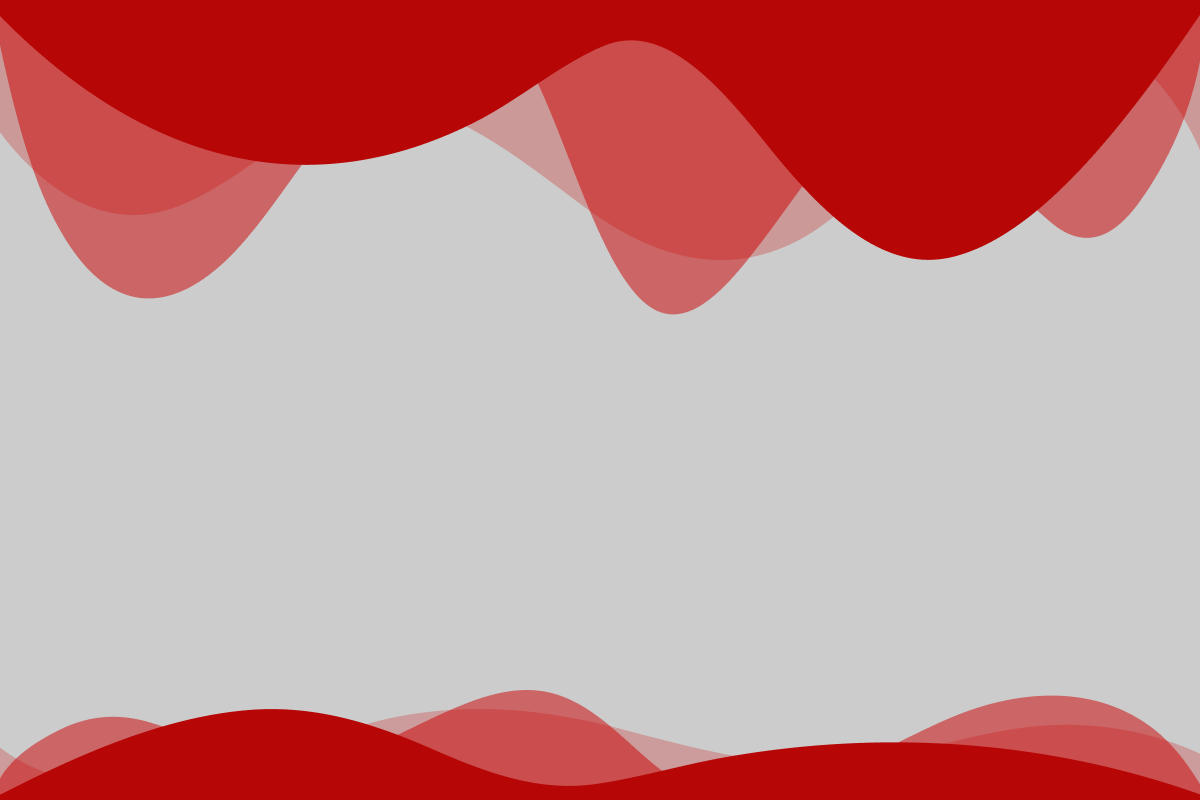
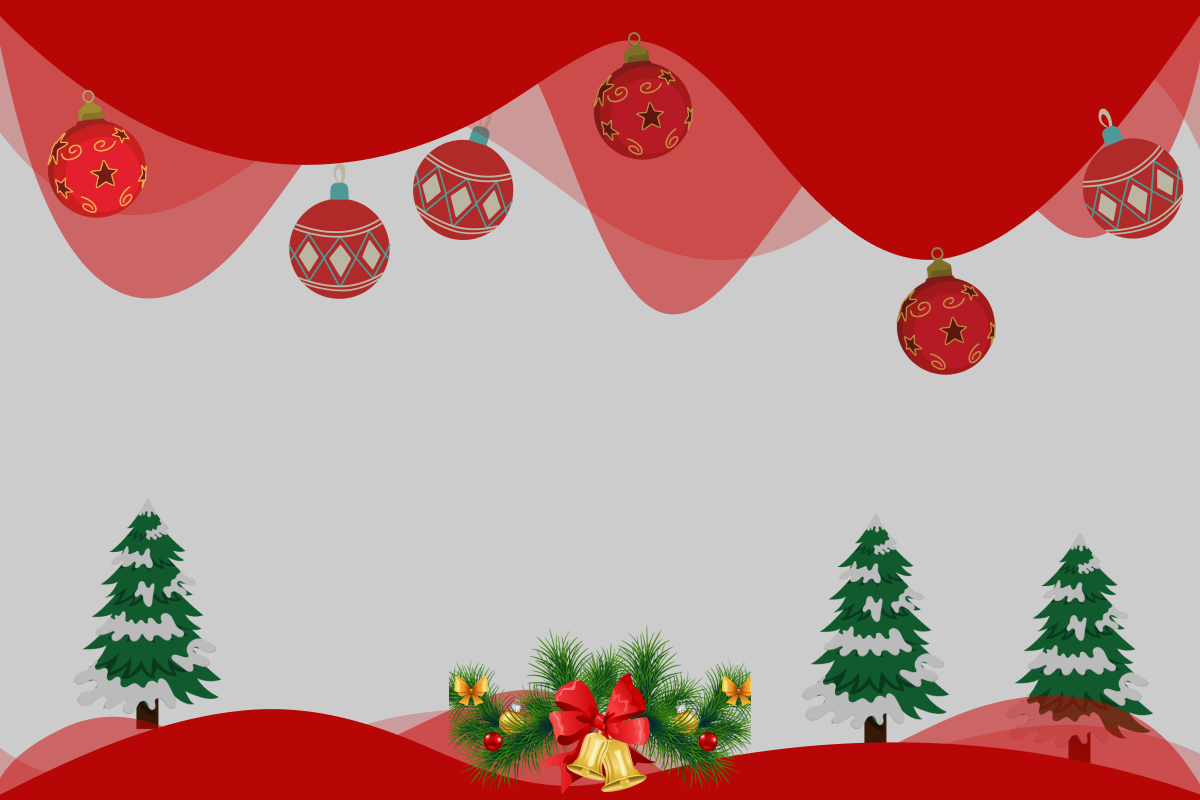
christmass update

diff --git a/src/App.css b/src/App.css
@@ -1,15 +1,18 @@
-.meetingOn{
-  background-image: url("./img/bg.png");
-  background-color: #cccccc;
-  background-size: fill;
-}
 .meetingOff{
   background-image: url("./img/bgoff.png");
   background-color: #20CD5B;
-  background-size: fill;
+  background-size: 100%;
+  background-position: center;
+}
+.meetingOn{
+  background-image: url("./img/bg.png");
+  background-size: cover;
+  background-position: center;
 }
 .msg{
-  color:white;
+  color:rgb(233, 230, 230);
+  font-size: 37px;
+  font-family: 'Plus Jakarta Sans', sans-serif;
 }
 
 .moh1{

diff --git a/src/MeetingOff.js b/src/MeetingOff.js
@@ -1,8 +1,9 @@
+
 function MeetingOff({from,to,msg}){
    
     return(
-        <div className="meetingOff d-flex container-lg  vw-100 vh-100">
-            <div className="vw-100 flex-column gap-5 d-flex align-items-center pt-5 vh-100 container-fluid">
+        <div className="meetingOff d-flex container-lg ">
+            <div className="vw-100 flex-column gap-4 d-flex align-items-center pt-5 vh-100 container-fluid">
                 <h1 className="moh1">
                     Nincs meeting
                 </h1>

diff --git a/src/MeetingOn.js b/src/MeetingOn.js
@@ -1,7 +1,7 @@
 function MeetingOn({to,msg}){
     return(
         <div className="meetingOn d-flex container-lg bg-danger vw-100 vh-100">
-            <div className="vw-100 flex-column gap-5 d-flex align-items-center pt-5 vh-100 container-fluid">
+            <div className="vw-100 flex-column gap-4 d-flex align-items-center pt-5 vh-100 container-fluid">
                 <h1 className="moh1">
                     Meetingem van
                 </h1>
